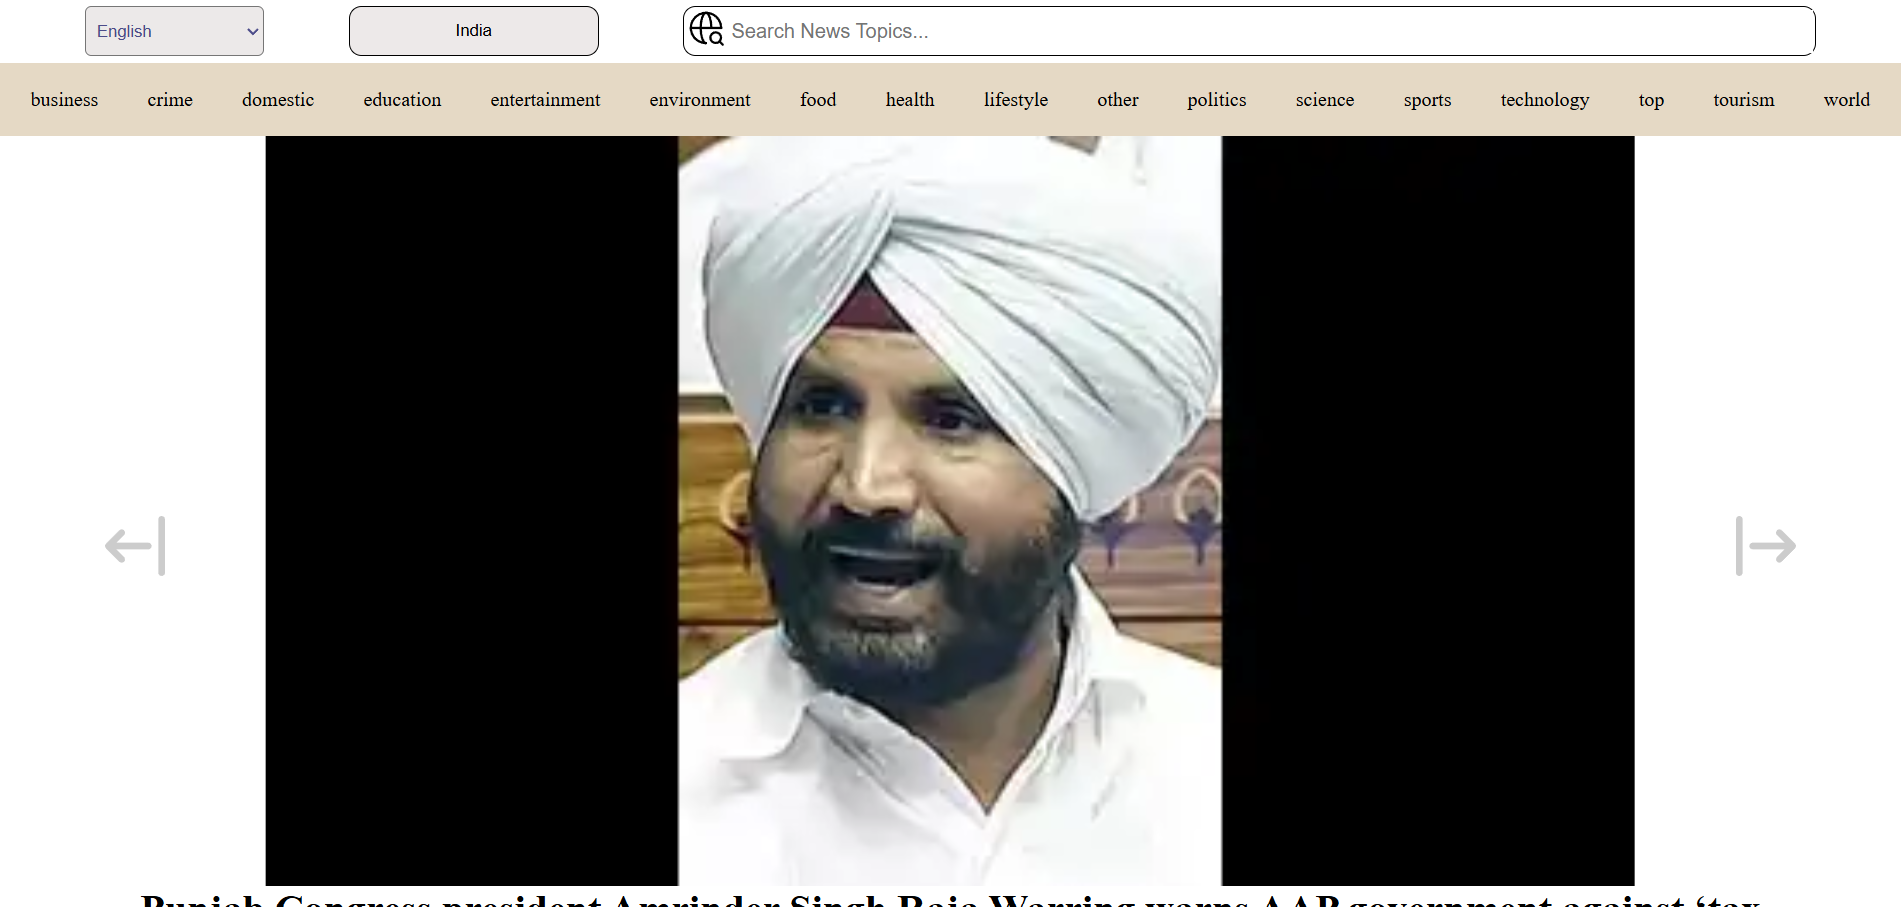
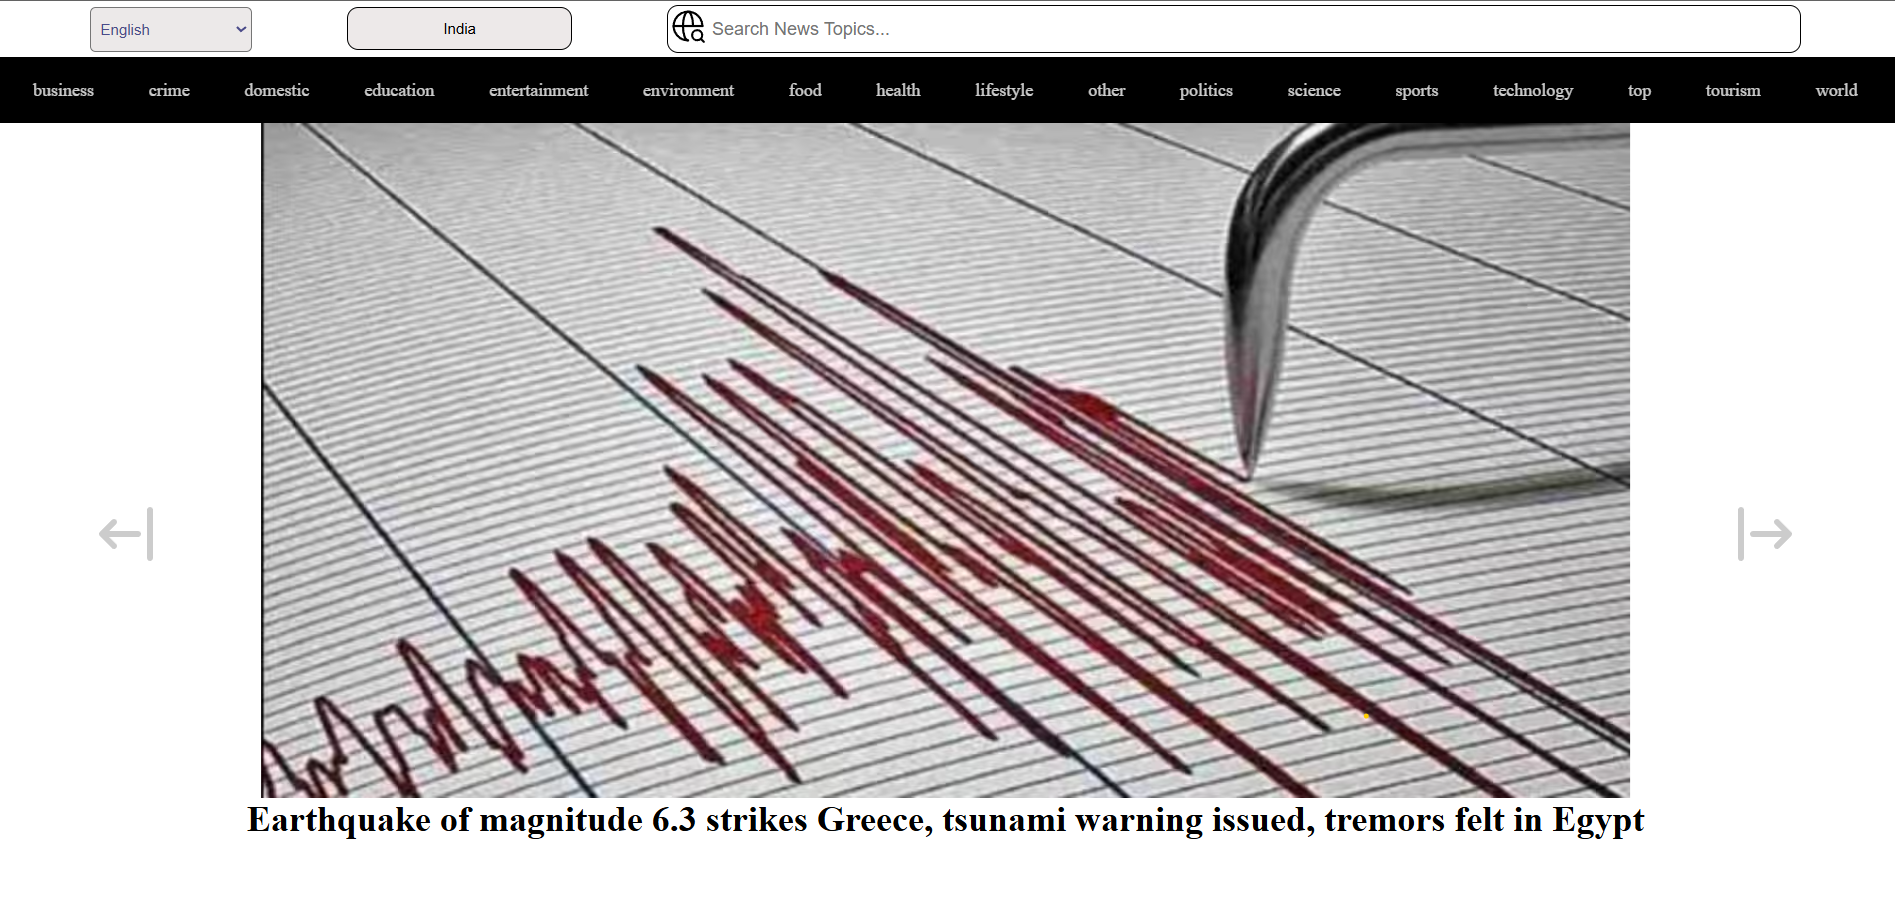
added weather project

diff --git a/src/Pages/my-projects.tsx b/src/Pages/my-projects.tsx
@@ -2,9 +2,11 @@ import { useEffect } from 'react';
 import '../Styles/projects.css';
 import { Project } from "../Components/project.tsx";
 import newsImage from '../Images/projects/news.png';
+import googleImage from '../Images/projects/google-clone.png';
 import amazonCloneImage from '../Images/projects/amazon-clone.png';
 import whatsappWebCloneImage from "../Images/projects/whatsapp-web-clone.png";
-import googleImage from '../Images/projects/google-clone.png';
+import weatherAppImage from '../Images/projects/weather-app.png';
+import { Footer } from '../Components/footer.tsx';
 
 export const MyProjects=()=>{
   useEffect(()=>{
@@ -42,6 +44,16 @@ export const MyProjects=()=>{
         title="Google Search Clone"
         description="This project is the clone of google search"
       />
+      <Project
+        id="project5"
+        image={weatherAppImage}
+        projectURL="https://pawan100722.github.io/my-weather-app/"
+        title="Weather Forecast App"
+        description="This project is useful for weather info and weather forecast"
+      />
+      <div className="footer-container">
+        <Footer/>
+      </div>
     </div>
   );
 }

diff --git a/src/Styles/projects.css b/src/Styles/projects.css
@@ -1,6 +1,5 @@
 .projects-page-container{
   background-color: #a3b18a;
-  /* padding: 10px; */
   display: flex;
   flex-direction: column;
   justify-content: center;
@@ -22,10 +21,7 @@
   border:2px solid black;
   border-radius:5px;
   box-shadow: -6px 6px 0 grey;
-  /* margin: 20px; */
   text-align: center;
-  /* transition: width 0.5s ease-out; */
-  /* transform: translateX(100%);  */
   background-color: beige;
   margin-bottom: 50px;
 }
@@ -84,6 +80,10 @@
 
 .project-component-container a:hover >  p{
  opacity: 1;
+}
+
+.footer-container{
+  width: 99.5dvw;
 }
 
 /* .increase-width{
